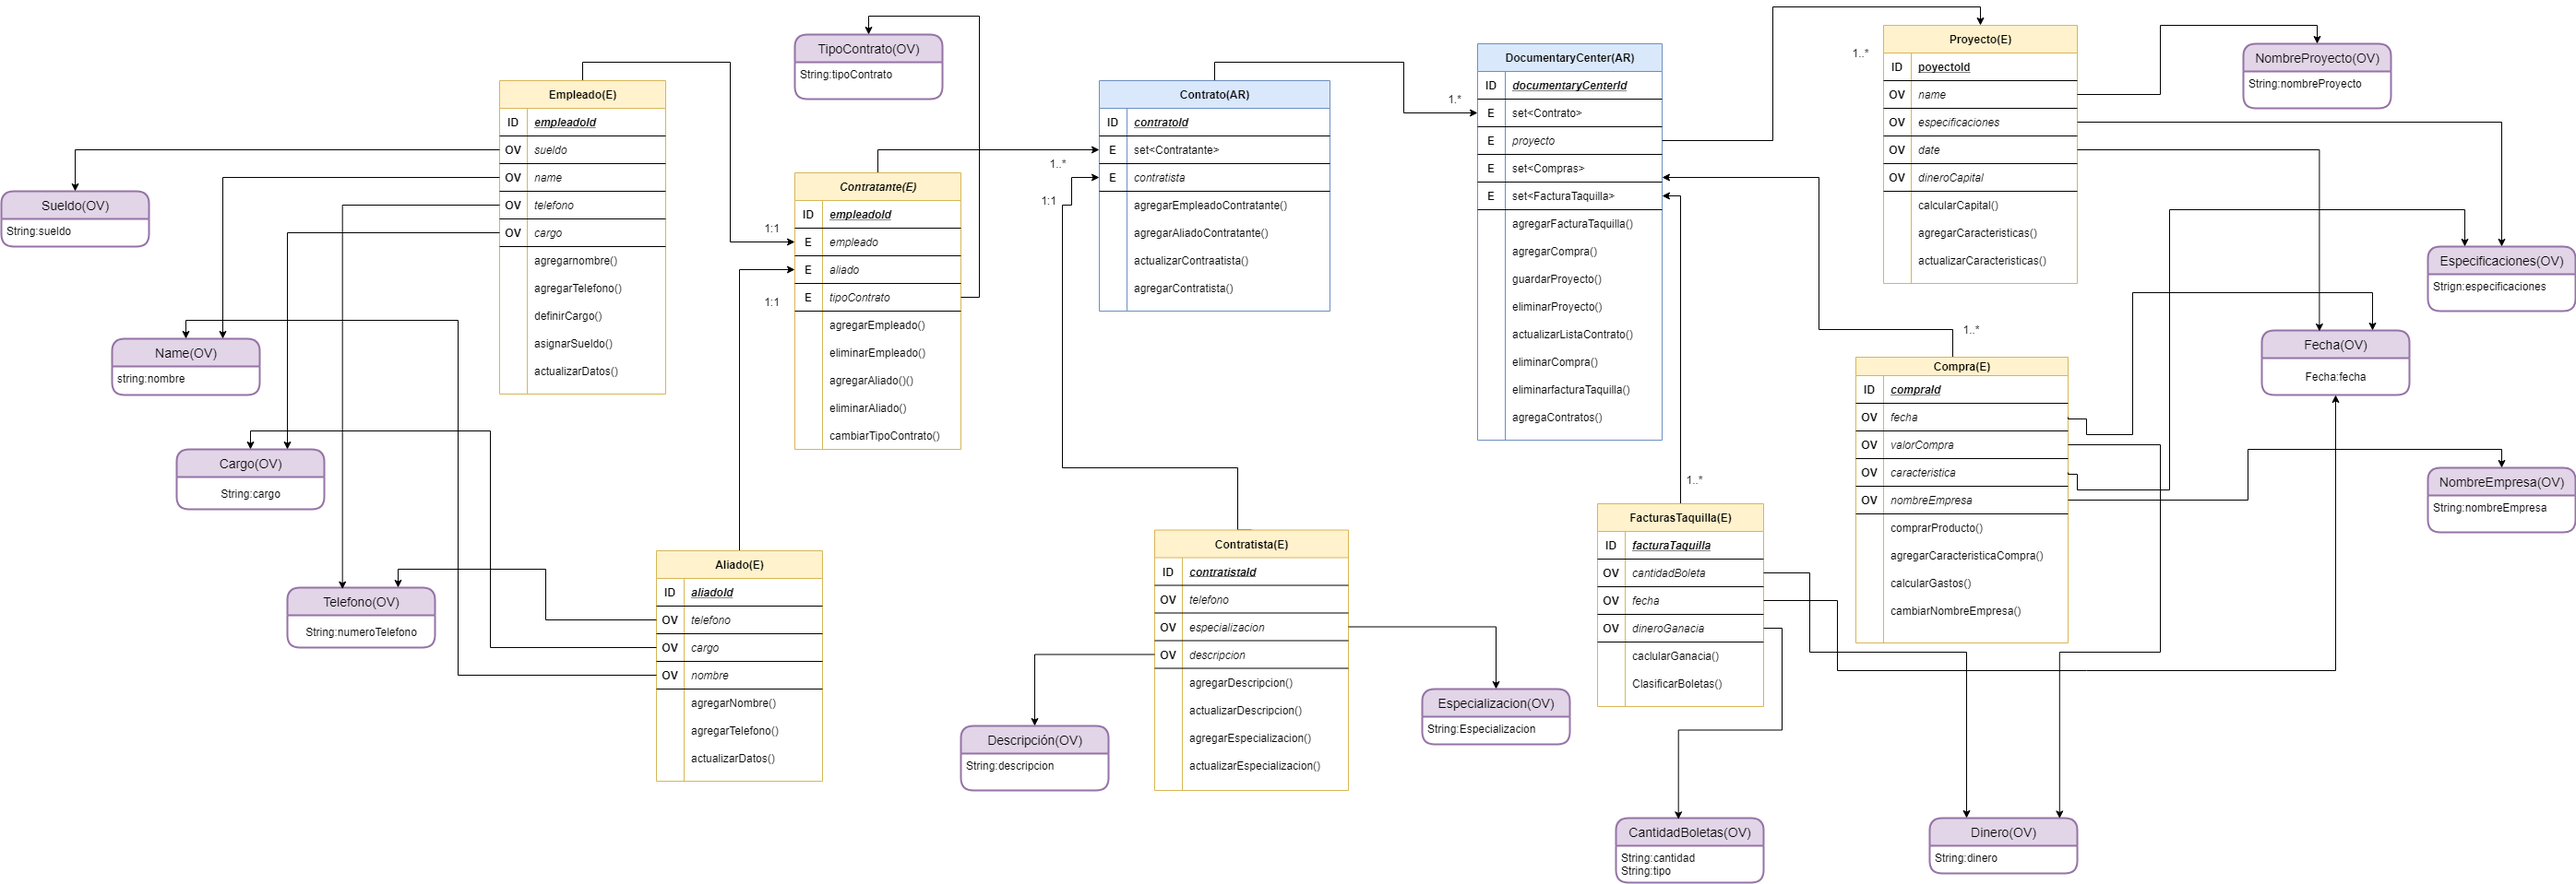
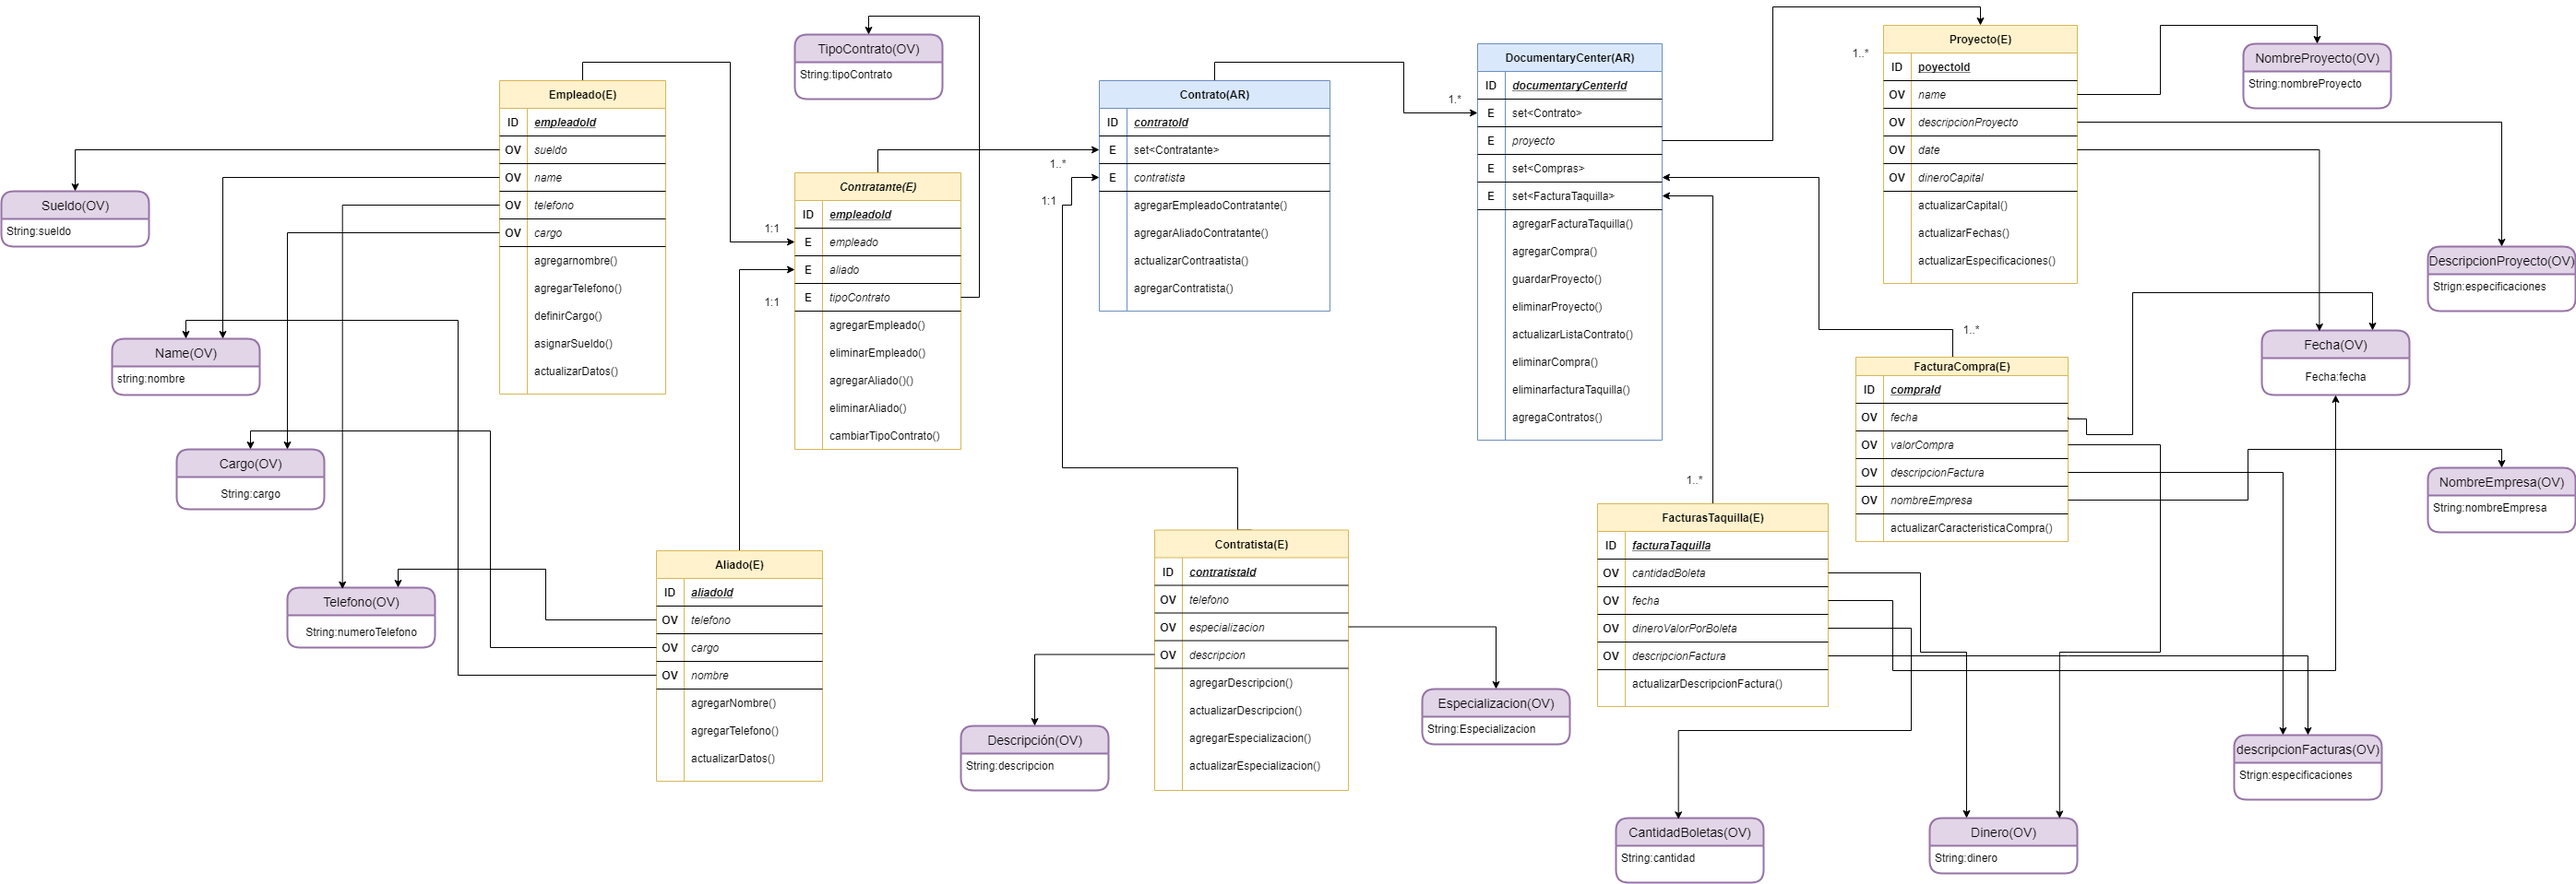
actualizando entidades

diff --git a/src/main/java/com/sofka/domainPaqueExplora/domain/documentarycenter/DocumentaryCenter.java b/src/main/java/com/sofka/domainPaqueExplora/domain/documentarycenter/DocumentaryCenter.java
@@ -1,11 +1,54 @@
 package com.sofka.domainPaqueExplora.domain.documentarycenter;
 
 import co.com.sofka.domain.generic.AggregateEvent;
-import com.sofka.domainPaqueExplora.domain.documentarycenter.valueobject.DocumentaryCenterId;
+import com.sofka.domainPaqueExplora.domain.documentarycenter.entity.Project;
+import com.sofka.domainPaqueExplora.domain.documentarycenter.entity.PurchaseInvoice;
+import com.sofka.domainPaqueExplora.domain.documentarycenter.entity.TicketOfficeInvoice;
+import com.sofka.domainPaqueExplora.domain.documentarycenter.valueobject.*;
+
+import java.util.Objects;
+import java.util.Set;
 
 public class DocumentaryCenter extends AggregateEvent<DocumentaryCenterId> {
 
+    protected Set<PurchaseInvoice> puchases;
+    protected Set<TicketOfficeInvoice> ticketOffices;
+    protected Set<Project> projectset;
+
     public DocumentaryCenter(DocumentaryCenterId entityId) {
+
         super(entityId);
-            }
+
+    }
+/**
+    public void addProject(ProjectId entityId, ProjectName name, ProjectDescription projectDescription, Money capitalMoney, Date dateInitial, Date dateFinal){
+        Objects.requireNonNull(entityId);
+        Objects.requireNonNull(name);
+        Objects.requireNonNull(projectDescription);
+        Objects.requireNonNull(capitalMoney);
+        Objects.requireNonNull(dateInitial);
+        Objects.requireNonNull(dateFinal);
+        appendChange(new ProjectAdded(ProjectId entityId, ProjectName name, ProjectDescription projectDescription, Money capitalMoney, Date dateInitial, Date dateFinal).apply();
+    }
+
+    public void addPurchaseInvoice(PurchaseInvoiceId entityId, Date datePurchase, CompanyName companyName, Money purchaseMoney, InvoiceDescription purchaseDescription){
+        Objects.requireNonNull(entityId);
+        Objects.requireNonNull(datePurchase);
+        Objects.requireNonNull(companyName);
+        Objects.requireNonNull(purchaseMoney);
+        Objects.requireNonNull(purchaseDescription);
+        appendChange(new PurchseInvoiceAdded(PurchaseInvoiceId entityId, Date datePurchase, CompanyName companyName, Money purchaseMoney, InvoiceDescription purchaseDescription).apply();
+    }
+
+    public void addTicketOfficeInvoice(TicketOfficeInvoiceId entityId, NumberOfBallots numberOfBallots , Date dateDay, Money ticketMoney, InvoiceDescription ticketDescription){
+        Objects.requireNonNull(entityId);
+        Objects.requireNonNull(numberOfBallots);
+        Objects.requireNonNull(dateDay);
+        Objects.requireNonNull(ticketMoney);
+        Objects.requireNonNull(ticketDescription);
+        appendChange(new TicketOfficeInvoiceAdded(ProjectId entityId, ProjectName name, ProjectDescription projectDescription, Money capitalMoney, Date dateInitial, Date dateFinal).apply();
+    }
+*/
 }
+
+

diff --git a/src/main/java/com/sofka/domainPaqueExplora/domain/documentarycenter/entity/Project.java b/src/main/java/com/sofka/domainPaqueExplora/domain/documentarycenter/entity/Project.java
@@ -1,4 +1,58 @@
 package com.sofka.domainPaqueExplora.domain.documentarycenter.entity;
 
-public class Project {
+import co.com.sofka.domain.generic.Entity;
+import com.sofka.domainPaqueExplora.domain.documentarycenter.valueobject.*;
+
+import java.util.Objects;
+
+public class Project extends Entity<ProjectId> {
+
+    private ProjectName name;
+    private ProjectDescription projectDescription;
+    private Date dateInitial;
+    private Date dateFinal;
+    private Money capitalMoney;
+
+    public Project(ProjectId entityId, ProjectName name, ProjectDescription projectDescription, Money capitalMoney, Date dateInitial, Date dateFinal) {
+        super(entityId);
+        this.name=name;
+        this.projectDescription = projectDescription;
+        this.dateInitial=dateInitial;
+        this.dateFinal = dateFinal;
+        this.capitalMoney=capitalMoney;
+    }
+
+    public void upgradeCapitalMoney(Money capitalMoney) {
+        this.capitalMoney = Objects.requireNonNull(capitalMoney);
+    }
+
+    public void upgradeDate(Date dateInitial,Date dateFinal){
+        this.dateInitial = Objects.requireNonNull(dateInitial);
+        this.dateFinal = Objects.requireNonNull(dateFinal);
+    }
+
+
+   public void upgradeSpecifications(ProjectDescription projectDescription){
+       this.projectDescription = Objects.requireNonNull(projectDescription);
+    }
+
+    public ProjectName Name() {
+        return name;
+    }
+
+    public ProjectDescription Thickening() {
+        return projectDescription;
+    }
+
+    public Date DateFinal() {
+        return dateFinal;
+    }
+
+    public Date getDateInitial()
+    {
+        return dateInitial;
+    }
+    public Money CapitalMoney() {
+        return capitalMoney;
+    }
 }

diff --git a/src/main/java/com/sofka/domainPaqueExplora/domain/documentarycenter/entity/TicketOfficeInvoice.java b/src/main/java/com/sofka/domainPaqueExplora/domain/documentarycenter/entity/TicketOfficeInvoice.java
@@ -1,0 +1,46 @@
+package com.sofka.domainPaqueExplora.domain.documentarycenter.entity;
+
+import co.com.sofka.domain.generic.Entity;
+import com.sofka.domainPaqueExplora.domain.documentarycenter.valueobject.*;
+
+import java.util.Objects;
+
+public class TicketOfficeInvoice extends Entity<TicketOfficeInvoiceId> {
+    private NumberOfBallots numberOfBallots;
+    private Date dateDay;
+    private Money ticketMoney;
+    private InvoiceDescription ticketDescription;
+
+    public TicketOfficeInvoice(TicketOfficeInvoiceId entityId, NumberOfBallots numberOfBallots , Date dateDay, Money ticketMoney, InvoiceDescription ticketDescription) {
+
+        super(entityId);
+        this.numberOfBallots = numberOfBallots;
+        this.dateDay=dateDay;
+        this.ticketMoney = ticketMoney;
+        this.ticketDescription=ticketDescription;
+        }
+
+    public void upgradeData(NumberOfBallots numberOfBallots,Date dateDay, Money ticketMoney, InvoiceDescription ticketDescription){
+        this.numberOfBallots= Objects.requireNonNull(numberOfBallots);
+        this.dateDay=Objects.requireNonNull(dateDay);
+        this.ticketMoney= Objects.requireNonNull(ticketMoney);
+        this.ticketDescription=Objects.requireNonNull(ticketDescription);
+    }
+
+
+    public NumberOfBallots NumberOfBallots() {
+        return numberOfBallots;
+    }
+
+    public Date getDateDay() {
+        return dateDay;
+    }
+
+    public Money TicketMoney() {
+        return ticketMoney;
+    }
+
+    public InvoiceDescription TicketDescription() {
+        return ticketDescription;
+    }
+}

diff --git a/src/main/java/com/sofka/domainPaqueExplora/domain/documentarycenter/entity/PurchaseInvoice.java b/src/main/java/com/sofka/domainPaqueExplora/domain/documentarycenter/entity/PurchaseInvoice.java
@@ -1,0 +1,45 @@
+package com.sofka.domainPaqueExplora.domain.documentarycenter.entity;
+
+import co.com.sofka.domain.generic.Entity;
+import com.sofka.domainPaqueExplora.domain.documentarycenter.valueobject.*;
+
+import java.util.Objects;
+
+public class PurchaseInvoice extends Entity<PurchaseInvoiceId> {
+
+    private Date datePurchase;
+    private Money purchaseMoney;
+    private InvoiceDescription purchaseDescription;
+    private CompanyName companyName;
+
+    public PurchaseInvoice(PurchaseInvoiceId entityId, Date datePurchase, CompanyName companyName, Money purchaseMoney, InvoiceDescription purchaseDescription) {
+        super(entityId);
+        this.datePurchase=datePurchase;
+        this.companyName= companyName;
+        this.purchaseMoney=purchaseMoney;
+        this.purchaseDescription=purchaseDescription;
+    }
+
+    public void upgradeData(Date datePurchase,CompanyName companyName, Money purchaseMoney, InvoiceDescription purchaseDescription){
+        this.datePurchase=Objects.requireNonNull(datePurchase);
+        this.companyName=Objects.requireNonNull(companyName);
+        this.purchaseMoney= Objects.requireNonNull(purchaseMoney);
+        this.purchaseDescription=Objects.requireNonNull(purchaseDescription);
+    }
+
+    public Date DatePurchase() {
+        return datePurchase;
+    }
+
+    public Money PurchaseMoney() {
+        return purchaseMoney;
+    }
+
+    public InvoiceDescription PurchaseDescription() {
+        return purchaseDescription;
+    }
+
+    public CompanyName CompanyName() {
+        return companyName;
+    }
+}

diff --git a/src/main/java/com/sofka/domainPaqueExplora/domain/documentarycenter/valueobject/ProjectDescription.java b/src/main/java/com/sofka/domainPaqueExplora/domain/documentarycenter/valueobject/ProjectDescription.java
@@ -1,0 +1,10 @@
+package com.sofka.domainPaqueExplora.domain.documentarycenter.valueobject;
+
+import co.com.sofka.domain.generic.ValueObject;
+
+public class ProjectDescription implements ValueObject<String> {
+    @Override
+    public String value() {
+        return null;
+    }
+}

diff --git a/src/main/java/com/sofka/domainPaqueExplora/domain/documentarycenter/valueobject/InvoiceDescription.java b/src/main/java/com/sofka/domainPaqueExplora/domain/documentarycenter/valueobject/InvoiceDescription.java
@@ -1,0 +1,10 @@
+package com.sofka.domainPaqueExplora.domain.documentarycenter.valueobject;
+
+import co.com.sofka.domain.generic.ValueObject;
+
+public class InvoiceDescription implements ValueObject<String>{
+    @Override
+    public String value() {
+        return null;
+    }
+}

diff --git a/src/main/java/com/sofka/domainPaqueExplora/domain/documentarycenter/valueobject/NumberOfBallots.java b/src/main/java/com/sofka/domainPaqueExplora/domain/documentarycenter/valueobject/NumberOfBallots.java
@@ -1,0 +1,10 @@
+package com.sofka.domainPaqueExplora.domain.documentarycenter.valueobject;
+
+import co.com.sofka.domain.generic.ValueObject;
+
+public class NumberOfBallots implements ValueObject<String> {
+    @Override
+    public String value() {
+        return null;
+    }
+}

diff --git a/src/main/java/com/sofka/domainPaqueExplora/domain/documentarycenter/valueobject/CompanyName.java b/src/main/java/com/sofka/domainPaqueExplora/domain/documentarycenter/valueobject/CompanyName.java
@@ -1,0 +1,10 @@
+package com.sofka.domainPaqueExplora.domain.documentarycenter.valueobject;
+
+import co.com.sofka.domain.generic.ValueObject;
+
+public class CompanyName implements ValueObject<String> {
+    @Override
+    public String value() {
+        return null;
+    }
+}

diff --git a/src/main/java/com/sofka/domainPaqueExplora/domain/documentarycenter/valueobject/ProjectName.java b/src/main/java/com/sofka/domainPaqueExplora/domain/documentarycenter/valueobject/ProjectName.java
@@ -1,0 +1,10 @@
+package com.sofka.domainPaqueExplora.domain.documentarycenter.valueobject;
+
+import co.com.sofka.domain.generic.ValueObject;
+
+public class ProjectName implements ValueObject<String> {
+    @Override
+    public String value() {
+        return null;
+    }
+}

diff --git a/src/main/java/com/sofka/domainPaqueExplora/domain/documentarycenter/valueobject/Money.java b/src/main/java/com/sofka/domainPaqueExplora/domain/documentarycenter/valueobject/Money.java
@@ -1,0 +1,10 @@
+package com.sofka.domainPaqueExplora.domain.documentarycenter.valueobject;
+
+import co.com.sofka.domain.generic.ValueObject;
+
+public class Money implements ValueObject<String> {
+    @Override
+    public String value() {
+        return null;
+    }
+}

diff --git a/src/main/java/com/sofka/domainPaqueExplora/domain/documentarycenter/valueobject/Date.java b/src/main/java/com/sofka/domainPaqueExplora/domain/documentarycenter/valueobject/Date.java
@@ -1,0 +1,10 @@
+package com.sofka.domainPaqueExplora.domain.documentarycenter.valueobject;
+
+import co.com.sofka.domain.generic.ValueObject;
+
+public class Date implements ValueObject<Date> {
+    @Override
+    public Date value() {
+        return null;
+    }
+}

diff --git a/src/main/java/com/sofka/domainPaqueExplora/domain/documentarycenter/valueobject/TicketOfficeInvoiceId.java b/src/main/java/com/sofka/domainPaqueExplora/domain/documentarycenter/valueobject/TicketOfficeInvoiceId.java
@@ -1,0 +1,6 @@
+package com.sofka.domainPaqueExplora.domain.documentarycenter.valueobject;
+
+import co.com.sofka.domain.generic.Identity;
+
+public class TicketOfficeInvoiceId extends Identity {
+}
